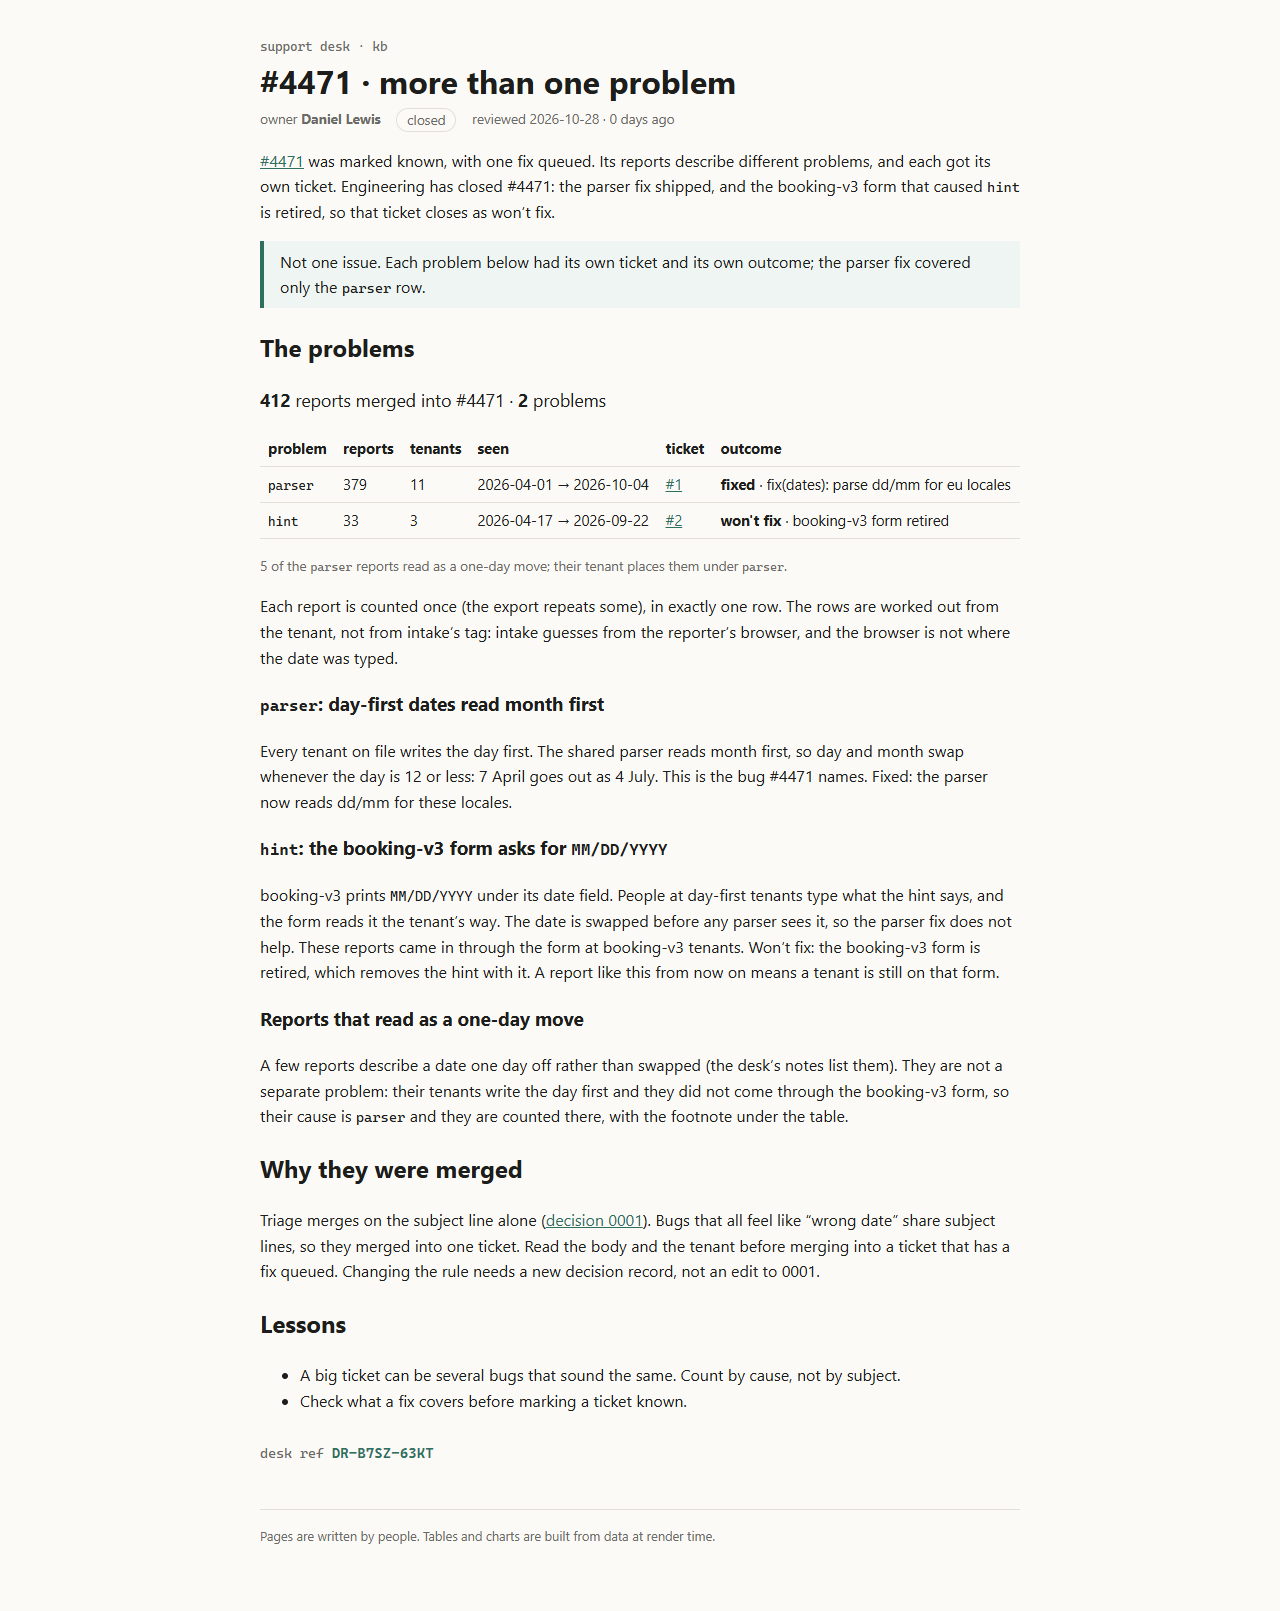
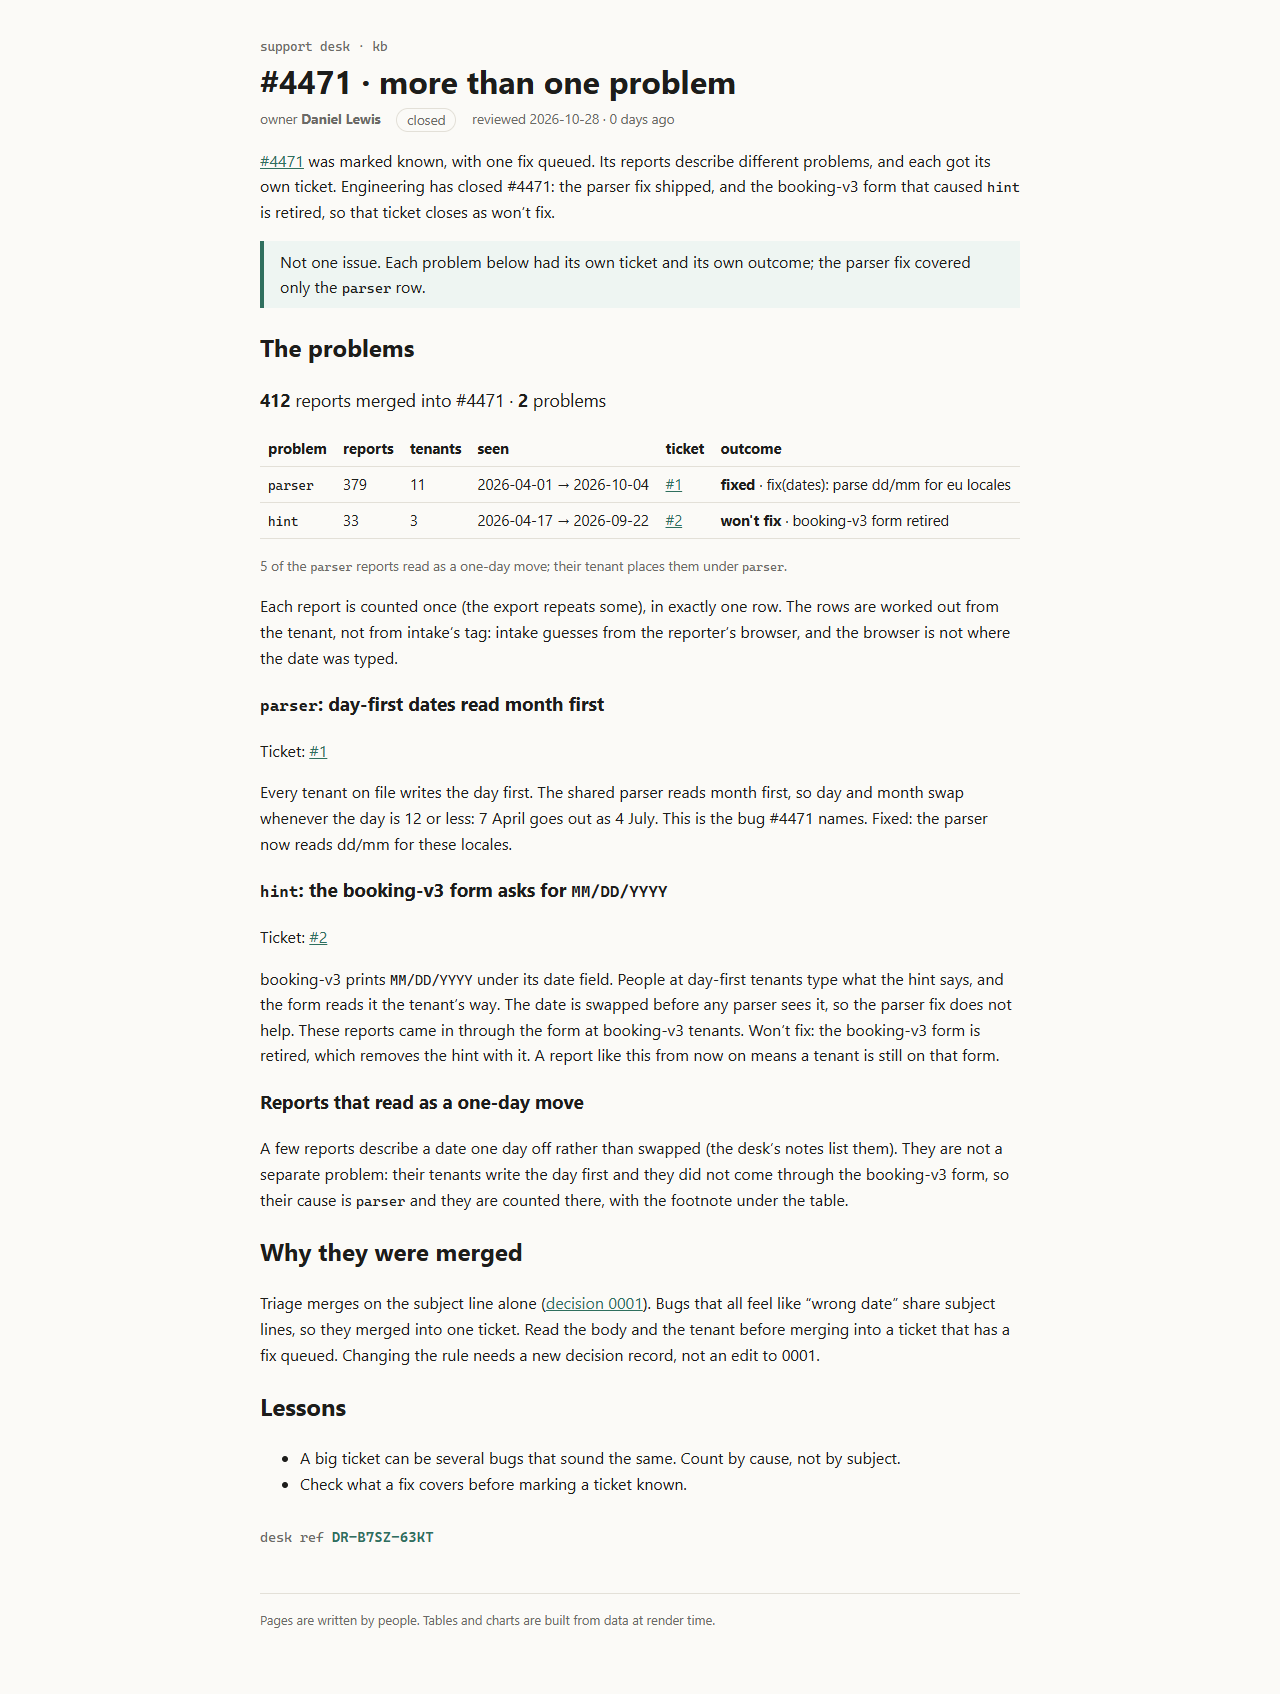
docs(kb): link each problem to its ticket on the #4471 page
The page named its tickets only through a data file, so the .svx itself never pointed at the issues it is about.

Changed region(s): [[0.1875, 0.031, 0.7812, 0.9621]]

diff --git a/support-kb/rendered/kb/incidents/4471-split.html b/support-kb/rendered/kb/incidents/4471-split.html
@@ -3,19 +3,19 @@
   <head>
     <meta charset="utf-8" />
     <meta name="viewport" content="width=device-width, initial-scale=1" />
-    <link href="../../_app/immutable/entry/start.D_MhzZkh.js" rel="modulepreload">
+    <link href="../../_app/immutable/entry/start.DD0VnzjJ.js" rel="modulepreload">
 		<link href="../../_app/immutable/chunks/DlMqkbta.js" rel="modulepreload">
-		<link href="../../_app/immutable/chunks/B6rMHLRS.js" rel="modulepreload">
+		<link href="../../_app/immutable/chunks/DIT4Zg7I.js" rel="modulepreload">
 		<link href="../../_app/immutable/chunks/Bf09_hau.js" rel="modulepreload">
-		<link href="../../_app/immutable/entry/app.CMkHhZ3o.js" rel="modulepreload">
+		<link href="../../_app/immutable/entry/app.CKyGZjHm.js" rel="modulepreload">
 		<link href="../../_app/immutable/chunks/E-2nbm7m.js" rel="modulepreload">
 		<link href="../../_app/immutable/chunks/BuA9gQby.js" rel="modulepreload">
 		<link href="../../_app/immutable/chunks/DzpwtG-x.js" rel="modulepreload">
 		<link href="../../_app/immutable/chunks/BbLv6-Rs.js" rel="modulepreload">
 		<link href="../../_app/immutable/nodes/0.DKnddjZH.js" rel="modulepreload">
 		<link href="../../_app/immutable/chunks/C-UtU-xg.js" rel="modulepreload">
-		<link href="../../_app/immutable/nodes/5.BEbVcJ99.js" rel="modulepreload">
-		<link href="../../_app/immutable/chunks/DSKYaClQ.js" rel="modulepreload">
+		<link href="../../_app/immutable/nodes/5.CBxbjkAa.js" rel="modulepreload">
+		<link href="../../_app/immutable/chunks/DCZVZMSx.js" rel="modulepreload">
 		<link href="../../_app/immutable/chunks/6ALyr1k1.js" rel="modulepreload">
 		<link href="../../_app/immutable/chunks/B1a14eto.js" rel="modulepreload">
 		<link href="../../_app/immutable/chunks/iXLSwIXB.js" rel="modulepreload">
@@ -29,9 +29,9 @@
 problems, and each got its own ticket. Engineering has closed #4471: the parser fix shipped, and
 the booking-v3 form that caused <code>hint</code> is retired, so that ticket closes as won’t fix.</p> <aside class="note svelte-17bri61"><!---->Not one issue. Each problem below had its own ticket and its own outcome; the parser fix covered only the <code>parser</code> row.<!----></aside><!----> <h2>The problems</h2> <p class="sum svelte-1op6c6"><strong>412</strong> reports merged into #4471 · <strong>2</strong> problems</p> <table><thead><tr><th>problem</th><th>reports</th><th>tenants</th><th>seen</th><th>ticket</th><th>outcome</th></tr></thead><tbody><!--[--><tr class="svelte-1op6c6"><td class="svelte-1op6c6"><code>parser</code></td><td class="svelte-1op6c6">379</td><td class="svelte-1op6c6">11</td><td class="svelte-1op6c6">2026-04-01 → 2026-10-04</td><td class="svelte-1op6c6"><!--[0--><a href="https://github.com/daniel-j-lewis/mega-s01e03-support-kb/issues/1">#1</a><!--]--></td><td class="svelte-1op6c6"><!--[0--><b>fixed</b> · fix(dates): parse dd/mm for eu locales<!--]--></td></tr><tr class="svelte-1op6c6"><td class="svelte-1op6c6"><code>hint</code></td><td class="svelte-1op6c6">33</td><td class="svelte-1op6c6">3</td><td class="svelte-1op6c6">2026-04-17 → 2026-09-22</td><td class="svelte-1op6c6"><!--[0--><a href="https://github.com/daniel-j-lewis/mega-s01e03-support-kb/issues/2">#2</a><!--]--></td><td class="svelte-1op6c6"><!--[0--><b>won't fix</b> · booking-v3 form retired<!--]--></td></tr><!--]--></tbody></table> <!--[--><!--[0--><p class="note svelte-1op6c6">5 of the <code>parser</code> reports read as a one-day move; their tenant places them under <code>parser</code>.</p><!--]--><!--[-1--><!--]--><!--]--><!----> <p>Each report is counted once (the export repeats some), in exactly one row. The rows are worked out
 from the tenant, not from intake’s tag: intake guesses from the reporter’s browser, and the browser
-is not where the date was typed.</p> <h3><code>parser</code>: day-first dates read month first</h3> <p>Every tenant on file writes the day first. The shared parser reads month first, so day and month
+is not where the date was typed.</p> <h3><code>parser</code>: day-first dates read month first</h3> <p>Ticket: <a href="https://github.com/daniel-j-lewis/mega-s01e03-support-kb/issues/1" rel="nofollow">#1</a></p> <p>Every tenant on file writes the day first. The shared parser reads month first, so day and month
 swap whenever the day is 12 or less: 7 April goes out as 4 July. This is the bug #4471 names.
-Fixed: the parser now reads dd/mm for these locales.</p> <h3><code>hint</code>: the booking-v3 form asks for <code>MM/DD/YYYY</code></h3> <p>booking-v3 prints <code>MM/DD/YYYY</code> under its date field. People at day-first tenants type what the hint
+Fixed: the parser now reads dd/mm for these locales.</p> <h3><code>hint</code>: the booking-v3 form asks for <code>MM/DD/YYYY</code></h3> <p>Ticket: <a href="https://github.com/daniel-j-lewis/mega-s01e03-support-kb/issues/2" rel="nofollow">#2</a></p> <p>booking-v3 prints <code>MM/DD/YYYY</code> under its date field. People at day-first tenants type what the hint
 says, and the form reads it the tenant’s way. The date is swapped before any parser sees it, so the
 parser fix does not help. These reports came in through the form at booking-v3 tenants. Won’t fix:
 the booking-v3 form is retired, which removes the hint with it. A report like this from now on means
@@ -45,15 +45,15 @@ needs a new decision record, not an edit to 0001.</p> <h2>Lessons</h2> <ul><li>A
 			
 			<script>
 				{
-					__sveltekit_17jiesz = {
+					__sveltekit_1j9e5rv = {
 						base: new URL("../..", location).pathname.slice(0, -1)
 					};
 
 					const element = document.currentScript.parentElement;
 
 					Promise.all([
-						import("../../_app/immutable/entry/start.D_MhzZkh.js"),
-						import("../../_app/immutable/entry/app.CMkHhZ3o.js")
+						import("../../_app/immutable/entry/start.DD0VnzjJ.js"),
+						import("../../_app/immutable/entry/app.CKyGZjHm.js")
 					]).then(([kit, app]) => {
 						kit.start(app, element, {
 							node_ids: [0, 5],
